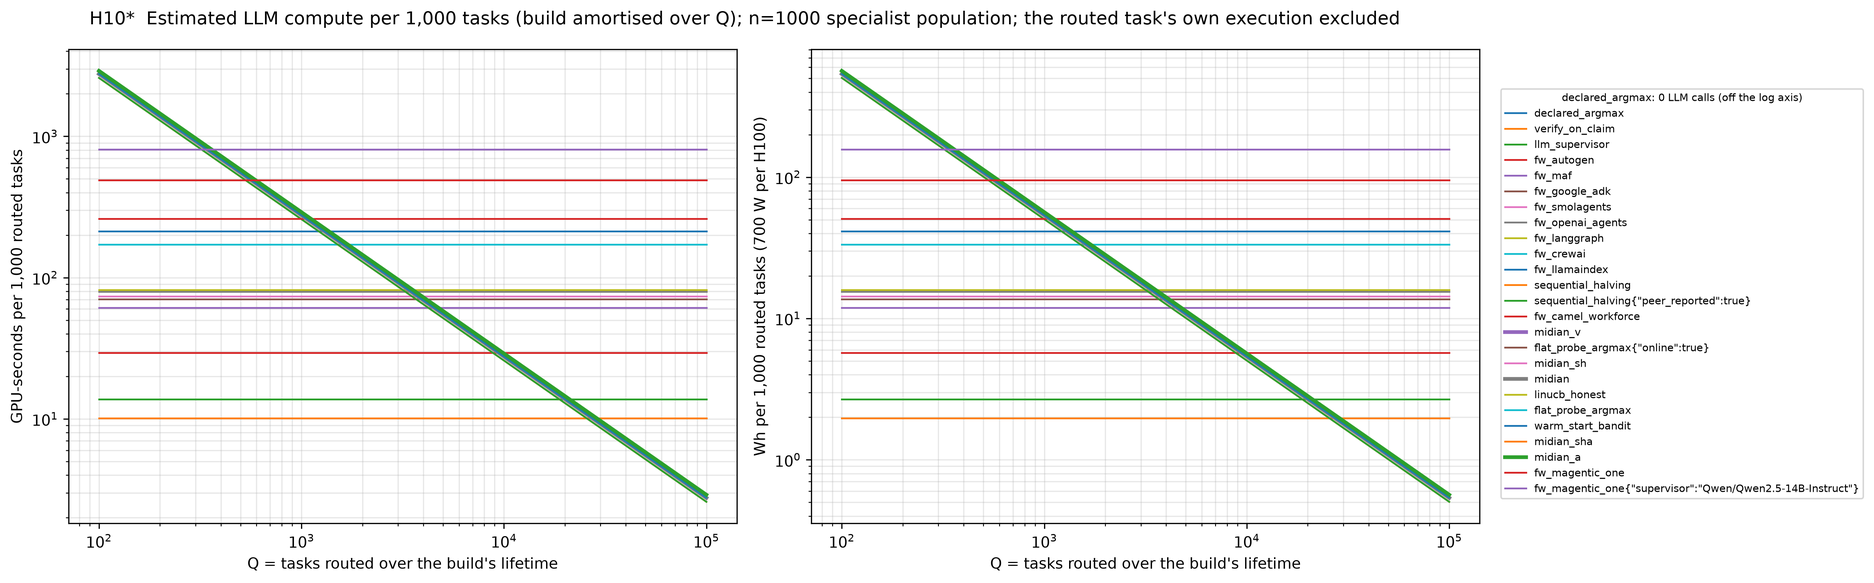
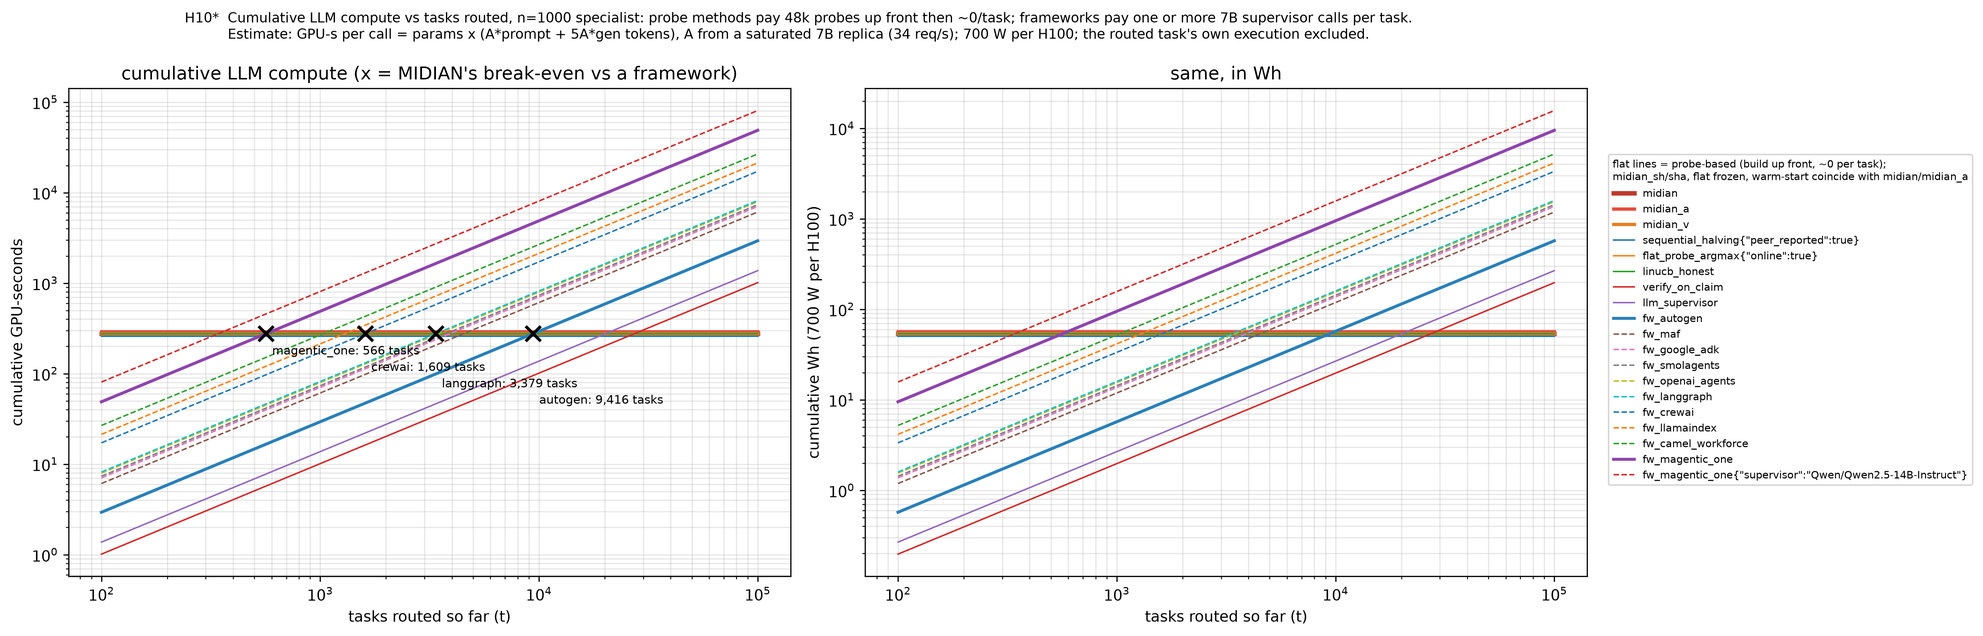
H10 as cumulative cost vs tasks routed with break-even crossings; energy section updated

diff --git a/scripts/energy.py b/scripts/energy.py
@@ -21,40 +21,59 @@ def rows(*grids):
     df = df[(df.declared_source == "self_described") & (df.n == 1000)]; df["m"] = df.method + df.params.str.replace("{}", "")
     return df.groupby("m")[["build_probes", "probes_per_task", "tasks_per_task", "wall_clock_per_task"]].mean()
 
-def table(Q=1000, dist="specialist", watts=700):
+def table(dist="specialist", watts=700):
     c = rows("live_f1_n1000", "variants_f1", "fw_live_n1000"); base = c.loc["fw_autogen", "wall_clock_per_task"]
+    skip = ("oracle", "random", "gossip_reputation_greedy", "referral_network", "thompson_per_family", "ucb_per_family", "trueskill_per_family", "midian_llm_descent",
+            "cluster_head_router", "cnp_self_bid", "declared_softmax", "disrouter_cascade", "route_to_k_majority")
     out = []
     for m, r in c.iterrows():
-        if m in ("oracle", "random") or m.startswith("midian{") or m.startswith("flat_nsw") or m in ("gossip_reputation_greedy", "referral_network", "thompson_per_family", "ucb_per_family", "trueskill_per_family", "midian_llm_descent", "cluster_head_router", "cnp_self_bid", "declared_softmax", "disrouter_cascade", "route_to_k_majority"): continue
-        sup_calls = (r.wall_clock_per_task / base) if (m.startswith("fw_") or m == "llm_supervisor") else 0.0   # call-equivalents (latency ratio to the one-call AutoGen)
+        if m in skip or m.startswith("midian{") or m.startswith("flat_nsw"): continue
+        sup_calls = (r.wall_clock_per_task / base) if (m.startswith("fw_") or m == "llm_supervisor") else 0.0   # call-equivalents (latency ratio to one-call AutoGen)
         sup_scale = P["Qwen/Qwen2.5-14B-Instruct"] / 7.0 if "14B" in m else 1.0
-        build = r.build_probes * probe_cost[dist]; per_task = r.probes_per_task * probe_cost[dist] + sup_calls * SUP * sup_scale
-        exec_ = r.tasks_per_task * probe_cost[dist]                                        # the routed task itself, common to every method
-        out.append(dict(method=m, build_gpu_s=build, route_gpu_s_per_task=per_task, exec_gpu_s_per_task=exec_, sup_call_equiv=sup_calls,
-                        **{f"gpu_s_per_1k_tasks_Q{q}": (build / q + per_task) * 1000 for q in (300, 1000, 10000)}))
-    t = pd.DataFrame(out).set_index("method"); t["Wh_per_1k_tasks_Q1000"] = t.gpu_s_per_1k_tasks_Q1000 * watts / 3600
-    t["breakeven_Q_vs_autogen"] = np.where(t.route_gpu_s_per_task < SUP, t.build_gpu_s / np.maximum(SUP - t.route_gpu_s_per_task, 1e-12), np.inf)
-    return t.sort_values("gpu_s_per_1k_tasks_Q1000")
+        out.append(dict(method=m, build_gpu_s=r.build_probes * probe_cost[dist], per_task_gpu_s=r.probes_per_task * probe_cost[dist] + sup_calls * SUP * sup_scale,
+                        exec_gpu_s_per_task=r.tasks_per_task * probe_cost[dist], sup_call_equiv=sup_calls))
+    t = pd.DataFrame(out).set_index("method")
+    for T in (1_000, 10_000, 100_000): t[f"cum_gpu_s_t{T}"] = t.build_gpu_s + T * t.per_task_gpu_s
+    t["cum_Wh_t10000"] = t.cum_gpu_s_t10000 * watts / 3600
+    return t.sort_values("cum_gpu_s_t10000")
+
+def crossing(t, a, b):
+    """Tasks after which method a (higher build, lower slope) becomes cheaper than b; inf if never."""
+    db, ds = t.loc[a, "build_gpu_s"] - t.loc[b, "build_gpu_s"], t.loc[b, "per_task_gpu_s"] - t.loc[a, "per_task_gpu_s"]
+    return db / ds if ds > 0 and db > 0 else (0.0 if db <= 0 else float("inf"))
 
 if __name__ == "__main__":
     t = table(); pd.set_option("display.width", 250)
+    fws = [m for m in t.index if m.startswith("fw_")]; mids = ["midian", "midian_a", "midian_v"]
     md = ["# Runtime and energy — ESTIMATE (*)", "", __doc__.strip(), "",
-          f"Per-call GPU-seconds: 7B supervisor call {SUP:.4f}; expected probe/execution call by population shape: " + ", ".join(f"{d} {v:.5f}" for d, v in probe_cost.items()) + " (specialist mixes all 7 models uniformly; heavy_tail 90% 0.5-1.5B; bimodal 80% 0.5B / 20% 7B).",
-          "Framework supervisor cost = measured latency ratio to AutoGen (one call) x the 7B call cost; the 14B Magentic-One arm is scaled by 14/7. CPU-side routing (tree descent, TF-IDF) is microseconds per task and omitted.", "",
-          "| method | build GPU-s | route GPU-s/task | task-execution GPU-s/task (common) | supervisor call-equiv/task | GPU-s per 1k tasks @Q=300 | @Q=1000 | @Q=10000 | Wh per 1k tasks @Q=1000 (700 W) | Wh (400 W) | break-even Q vs AutoGen |", "|---|---|---|---|---|---|---|---|---|---|---|"]
+          f"Per-call GPU-seconds: 7B supervisor call {SUP:.4f}; expected probe/execution call by population shape: " + ", ".join(f"{d} {v:.5f}" for d, v in probe_cost.items())
+          + " (specialist mixes all 7 models uniformly; heavy_tail 90% 0.5-1.5B; bimodal 80% 0.5B / 20% 7B).",
+          "Framework supervisor cost = measured latency ratio to AutoGen (one call) x the 7B call cost; the 14B Magentic-One arm is scaled by 14/7. CPU-side routing (tree descent, TF-IDF) is microseconds per task and omitted. "
+          "The routed task's own execution (0.0058 GPU-s per task on specialist) is common to every method and excluded.", "",
+          "CUMULATIVE LLM compute after t routed tasks = build + t x per-task (n=1000 specialist). Probe-based methods pay their build up front and then ~0 per task; frameworks pay 0 up front and a supervisor call per task, so the crossing of the two lines is the break-even.", "",
+          "| method | build GPU-s | per-task GPU-s | cumulative GPU-s @ t=1k | @ 10k | @ 100k | cumulative Wh @ 10k (700 W) | (400 W) |", "|---|---|---|---|---|---|---|---|"]
     for m, r in t.iterrows():
-        md.append(f"| {m} | {r.build_gpu_s:,.0f} | {r.route_gpu_s_per_task:.4f} | {r.exec_gpu_s_per_task:.4f} | {r.sup_call_equiv:.1f} | {r.gpu_s_per_1k_tasks_Q300:,.0f} | {r.gpu_s_per_1k_tasks_Q1000:,.0f} | {r.gpu_s_per_1k_tasks_Q10000:,.0f} | {r.Wh_per_1k_tasks_Q1000:,.1f} | {r.Wh_per_1k_tasks_Q1000*400/700:,.1f} | {('%.0f' % r.breakeven_Q_vs_autogen) if np.isfinite(r.breakeven_Q_vs_autogen) else 'never'} |")
+        md.append(f"| {m} | {r.build_gpu_s:,.0f} | {r.per_task_gpu_s:.4f} | {r.cum_gpu_s_t1000:,.0f} | {r.cum_gpu_s_t10000:,.0f} | {r.cum_gpu_s_t100000:,.0f} | {r.cum_Wh_t10000:,.1f} | {r.cum_Wh_t10000*400/700:,.1f} |")
+    md += ["", "**Crossing points (tasks routed before the probe-based method's cumulative cost drops below the framework's):**", "", "| | " + " | ".join(m.replace("fw_", "") for m in fws) + " |", "|---|" + "---|" * len(fws)]
+    for a in mids: md.append(f"| {a} | " + " | ".join(f"{crossing(t, a, b):,.0f}" for b in fws) + " |")
     md += ["", "MIDIAN's 48,000-probe build by population shape (GPU-s): " + ", ".join(f"{d} {48000 * v:,.0f}" for d, v in probe_cost.items())
-           + f"; one AutoGen supervisor call = {SUP:.4f} GPU-s, so on specialist the build equals ~{48000 * probe_cost['specialist'] / SUP:,.0f} one-call framework tasks.",
-           "Reading: at Q = 1,000 every probe-based method spends ~9x a one-call framework's GPU-seconds (the build dominates); at Q = 10,000 they are level "
-           "with AutoGen and ~10-30x cheaper than the multi-call frameworks; MIDIAN-A's audits add 5%; MIDIAN-V and halving are the cheapest builds (fewer probes)."]
+           + "; the crossings scale with it (heavy_tail and bimodal cross ~3x sooner).",
+           "Reading: against a one-call framework (AutoGen) MIDIAN breaks even after ~9,400 tasks on specialist (~2,900 on heavy_tail), MIDIAN-A after ~9,900; against the multi-call frameworks (CrewAI, LlamaIndex, CAMEL) after 1,000-1,600 tasks; against Magentic-One after ~570 (7B) / ~340 (14B arm). Before the crossing the framework is cheaper; after it, the probe-based methods' cost is flat while every framework's keeps growing linearly."]
     open(os.path.dirname(__file__) + "/../RESULTS_energy.md", "w").write("\n".join(md) + "\n")
-    Qs = np.logspace(2, 5, 25); fig, axes = plt.subplots(1, 2, figsize=(14, 5.5))
-    for m, r in t.iterrows():
-        y = (r.build_gpu_s / Qs + r.route_gpu_s_per_task) * 1000; lw = 2.5 if m in ("midian", "midian_a", "midian_v") else 1.2
-        axes[0].plot(Qs, y, label=m, lw=lw); axes[1].plot(Qs, y * 700 / 3600, lw=lw)
-    for ax, yl in zip(axes, ["GPU-seconds per 1,000 routed tasks", "Wh per 1,000 routed tasks (700 W per H100)"]):
-        ax.set_xscale("log"); ax.set_yscale("log"); ax.set_xlabel("Q = tasks routed over the build's lifetime"); ax.set_ylabel(yl); ax.grid(alpha=.3, which="both")
-    h, l = axes[0].get_legend_handles_labels(); fig.legend(h, l, loc="center left", bbox_to_anchor=(1.0, 0.5), fontsize=7, title="declared_argmax: 0 LLM calls (off the log axis)", title_fontsize=7)
-    fig.suptitle("H10*  Estimated LLM compute per 1,000 tasks (build amortised over Q); n=1000 specialist population; the routed task's own execution excluded")
-    plt.tight_layout(); plt.savefig(os.path.dirname(__file__) + "/../figures/H10_runtime_energy.png", dpi=300, bbox_inches="tight"); print(t.round(4).to_string())
+    T = np.logspace(2, 5, 300); fig, axes = plt.subplots(1, 2, figsize=(15, 6))
+    show = ["midian", "midian_a", "midian_v", 'sequential_halving{"peer_reported":true}', 'flat_probe_argmax{"online":true}', "linucb_honest", "verify_on_claim", "llm_supervisor"] + fws
+    style = {"midian": ("#c0392b", 3.0), "midian_a": ("#e74c3c", 2.2), "midian_v": ("#e67e22", 2.2), "fw_autogen": ("#2980b9", 2.0), "fw_magentic_one": ("#8e44ad", 2.0)}
+    for m in show:
+        r = t.loc[m]; col, lw = style.get(m, (None, 1.0)); y = r.build_gpu_s + T * r.per_task_gpu_s
+        axes[0].plot(T, y, label=m, color=col, lw=lw, ls="-" if not m.startswith("fw_") or m in style else "--"); axes[1].plot(T, y * 700 / 3600, color=col, lw=lw, ls="-" if not m.startswith("fw_") or m in style else "--")
+    for i, b in enumerate(("fw_magentic_one", "fw_crewai", "fw_langgraph", "fw_autogen")):           # MIDIAN's break-even points
+        x = crossing(t, "midian", b); y = t.loc["midian", "build_gpu_s"]
+        axes[0].plot([x], [y], "kx", ms=10, mew=2); axes[0].annotate(f"{b.replace('fw_', '')}: {x:,.0f} tasks", (x, y), textcoords="offset points", xytext=(4, -14 - 11 * i), fontsize=8)
+    for ax, yl in zip(axes, ["cumulative GPU-seconds", "cumulative Wh (700 W per H100)"]):
+        ax.set_xscale("log"); ax.set_yscale("log"); ax.set_xlabel("tasks routed so far (t)"); ax.set_ylabel(yl); ax.grid(alpha=.3, which="both")
+    axes[0].set_title("cumulative LLM compute (x = MIDIAN's break-even vs a framework)"); axes[1].set_title("same, in Wh")
+    h, l = axes[0].get_legend_handles_labels(); fig.legend(h, l, loc="center left", bbox_to_anchor=(1.0, 0.5), fontsize=7, title="flat lines = probe-based (build up front, ~0 per task);\nmidian_sh/sha, flat frozen, warm-start coincide with midian/midian_a", title_fontsize=7)
+    fig.suptitle("H10*  Cumulative LLM compute vs tasks routed, n=1000 specialist: probe methods pay 48k probes up front then ~0/task; frameworks pay one or more 7B supervisor calls per task.\n"
+                 "Estimate: GPU-s per call = params x (A*prompt + 5A*gen tokens), A from a saturated 7B replica (34 req/s); 700 W per H100; the routed task's own execution excluded.", fontsize=9)
+    plt.tight_layout(); plt.savefig(os.path.dirname(__file__) + "/../figures/H10_runtime_energy.png", dpi=300, bbox_inches="tight")
+    print(t.round(4).to_string()); print({a: {b: round(crossing(t, a, b)) for b in fws} for a in mids})

diff --git a/RESULTS_rte_v2.md b/RESULTS_rte_v2.md
@@ -339,45 +339,55 @@ LlamaIndex 3.1, CAMEL 4.5, Magentic-One 6.8.
 
 ## 6b. Runtime and energy (estimate*)
 
-From `scripts/energy.py` (counts × per-call GPU-seconds measured on the live fleet); full method and assumptions below.
+From `scripts/energy.py` (counts × per-call GPU-seconds measured on the live fleet); cumulative cost vs tasks routed, crossings = break-even.
 Runtime/energy ESTIMATE (*) per method from LLM-call counts x measured per-call GPU cost.  python scripts/energy.py
 Wall-clock in the rows is not used for probe methods (memo hits). Model: GPU-seconds per call = params_b * (A*prompt_tok + B*gen_tok),
 B = 5A (decode is ~5x prefill per token on H100/vLLM), A calibrated so a 7B supervisor call (1,900 prompt + 65 gen tokens) costs
 1/34 GPU-s = the throughput measured on the saturated 1-GPU 7B replicas (2026-09-03, 4 samples, 32-36 req/s). Energy = GPU-s * W.
 
 Per-call GPU-seconds: 7B supervisor call 0.0294; expected probe/execution call by population shape: specialist 0.00577, heavy_tail 0.00176, bimodal 0.00203 (specialist mixes all 7 models uniformly; heavy_tail 90% 0.5-1.5B; bimodal 80% 0.5B / 20% 7B).
-Framework supervisor cost = measured latency ratio to AutoGen (one call) x the 7B call cost; the 14B Magentic-One arm is scaled by 14/7. CPU-side routing (tree descent, TF-IDF) is microseconds per task and omitted.
+Framework supervisor cost = measured latency ratio to AutoGen (one call) x the 7B call cost; the 14B Magentic-One arm is scaled by 14/7. CPU-side routing (tree descent, TF-IDF) is microseconds per task and omitted. The routed task's own execution (0.0058 GPU-s per task on specialist) is common to every method and excluded.
 
-| method | build GPU-s | route GPU-s/task | task-execution GPU-s/task (common) | supervisor call-equiv/task | GPU-s per 1k tasks @Q=300 | @Q=1000 | @Q=10000 | Wh per 1k tasks @Q=1000 (700 W) | Wh (400 W) | break-even Q vs AutoGen |
-|---|---|---|---|---|---|---|---|---|---|---|
-| declared_argmax | 0 | 0.0000 | 0.0058 | 0.0 | 0 | 0 | 0 | 0.0 | 0.0 | 0 |
-| verify_on_claim | 0 | 0.0101 | 0.0058 | 0.0 | 10 | 10 | 10 | 2.0 | 1.1 | 0 |
-| llm_supervisor | 0 | 0.0138 | 0.0058 | 0.5 | 14 | 14 | 14 | 2.7 | 1.5 | 0 |
-| fw_autogen | 0 | 0.0294 | 0.0058 | 1.0 | 29 | 29 | 29 | 5.7 | 3.3 | never |
-| fw_maf | 0 | 0.0611 | 0.0058 | 2.1 | 61 | 61 | 61 | 11.9 | 6.8 | never |
-| fw_google_adk | 0 | 0.0704 | 0.0058 | 2.4 | 70 | 70 | 70 | 13.7 | 7.8 | never |
-| fw_smolagents | 0 | 0.0736 | 0.0058 | 2.5 | 74 | 74 | 74 | 14.3 | 8.2 | never |
-| fw_openai_agents | 0 | 0.0796 | 0.0058 | 2.7 | 80 | 80 | 80 | 15.5 | 8.8 | never |
-| fw_langgraph | 0 | 0.0820 | 0.0058 | 2.8 | 82 | 82 | 82 | 15.9 | 9.1 | never |
-| fw_crewai | 0 | 0.1721 | 0.0058 | 5.9 | 172 | 172 | 172 | 33.5 | 19.1 | never |
-| fw_llamaindex | 0 | 0.2136 | 0.0058 | 7.3 | 214 | 214 | 214 | 41.5 | 23.7 | never |
-| sequential_halving | 259 | 0.0000 | 0.0058 | 0.0 | 864 | 259 | 26 | 50.4 | 28.8 | 8814 |
-| sequential_halving{"peer_reported":true} | 259 | 0.0000 | 0.0058 | 0.0 | 864 | 259 | 26 | 50.4 | 28.8 | 8814 |
-| fw_camel_workforce | 0 | 0.2611 | 0.0058 | 8.9 | 261 | 261 | 261 | 50.8 | 29.0 | never |
-| midian_v | 276 | 0.0000 | 0.0058 | 0.0 | 920 | 276 | 28 | 53.7 | 30.7 | 9385 |
-| flat_probe_argmax{"online":true} | 277 | 0.0000 | 0.0058 | 0.0 | 923 | 277 | 28 | 53.9 | 30.8 | 9416 |
-| midian_sh | 277 | 0.0000 | 0.0058 | 0.0 | 923 | 277 | 28 | 53.9 | 30.8 | 9416 |
-| midian | 277 | 0.0000 | 0.0058 | 0.0 | 923 | 277 | 28 | 53.9 | 30.8 | 9416 |
-| linucb_honest | 277 | 0.0000 | 0.0058 | 0.0 | 923 | 277 | 28 | 53.9 | 30.8 | 9416 |
-| flat_probe_argmax | 277 | 0.0000 | 0.0058 | 0.0 | 923 | 277 | 28 | 53.9 | 30.8 | 9416 |
-| warm_start_bandit | 277 | 0.0000 | 0.0058 | 0.0 | 923 | 277 | 28 | 53.9 | 30.8 | 9416 |
-| midian_sha | 291 | 0.0000 | 0.0058 | 0.0 | 969 | 291 | 29 | 56.5 | 32.3 | 9884 |
-| midian_a | 291 | 0.0000 | 0.0058 | 0.0 | 969 | 291 | 29 | 56.5 | 32.3 | 9884 |
-| fw_magentic_one | 0 | 0.4890 | 0.0058 | 16.6 | 489 | 489 | 489 | 95.1 | 54.3 | never |
-| fw_magentic_one{"supervisor":"Qwen/Qwen2.5-14B-Instruct"} | 0 | 0.8088 | 0.0058 | 13.7 | 809 | 809 | 809 | 157.3 | 89.9 | never |
+CUMULATIVE LLM compute after t routed tasks = build + t x per-task (n=1000 specialist). Probe-based methods pay their build up front and then ~0 per task; frameworks pay 0 up front and a supervisor call per task, so the crossing of the two lines is the break-even.
 
-MIDIAN's 48,000-probe build by population shape (GPU-s): specialist 277, heavy_tail 84, bimodal 98; one AutoGen supervisor call = 0.0294 GPU-s, so on specialist the build equals ~9,416 one-call framework tasks.
-Reading: at Q = 1,000 every probe-based method spends ~9x a one-call framework's GPU-seconds (the build dominates); at Q = 10,000 they are level with AutoGen and ~10-30x cheaper than the multi-call frameworks; MIDIAN-A's audits add 5%; MIDIAN-V and halving are the cheapest builds (fewer probes).
+| method | build GPU-s | per-task GPU-s | cumulative GPU-s @ t=1k | @ 10k | @ 100k | cumulative Wh @ 10k (700 W) | (400 W) |
+|---|---|---|---|---|---|---|---|
+| declared_argmax | 0 | 0.0000 | 0 | 0 | 0 | 0.0 | 0.0 |
+| verify_on_claim | 0 | 0.0101 | 10 | 101 | 1,013 | 19.7 | 11.3 |
+| llm_supervisor | 0 | 0.0138 | 14 | 138 | 1,376 | 26.8 | 15.3 |
+| sequential_halving | 259 | 0.0000 | 259 | 259 | 259 | 50.4 | 28.8 |
+| sequential_halving{"peer_reported":true} | 259 | 0.0000 | 259 | 259 | 259 | 50.4 | 28.8 |
+| midian_v | 276 | 0.0000 | 276 | 276 | 276 | 53.7 | 30.7 |
+| flat_probe_argmax{"online":true} | 277 | 0.0000 | 277 | 277 | 277 | 53.9 | 30.8 |
+| flat_probe_argmax | 277 | 0.0000 | 277 | 277 | 277 | 53.9 | 30.8 |
+| linucb_honest | 277 | 0.0000 | 277 | 277 | 277 | 53.9 | 30.8 |
+| warm_start_bandit | 277 | 0.0000 | 277 | 277 | 277 | 53.9 | 30.8 |
+| midian | 277 | 0.0000 | 277 | 277 | 277 | 53.9 | 30.8 |
+| midian_sh | 277 | 0.0000 | 277 | 277 | 277 | 53.9 | 30.8 |
+| midian_sha | 291 | 0.0000 | 291 | 291 | 291 | 56.5 | 32.3 |
+| midian_a | 291 | 0.0000 | 291 | 291 | 291 | 56.5 | 32.3 |
+| fw_autogen | 0 | 0.0294 | 29 | 294 | 2,941 | 57.2 | 32.7 |
+| fw_maf | 0 | 0.0611 | 61 | 611 | 6,112 | 118.8 | 67.9 |
+| fw_google_adk | 0 | 0.0704 | 70 | 704 | 7,045 | 137.0 | 78.3 |
+| fw_smolagents | 0 | 0.0736 | 74 | 736 | 7,362 | 143.1 | 81.8 |
+| fw_openai_agents | 0 | 0.0796 | 80 | 796 | 7,964 | 154.9 | 88.5 |
+| fw_langgraph | 0 | 0.0820 | 82 | 820 | 8,196 | 159.4 | 91.1 |
+| fw_crewai | 0 | 0.1721 | 172 | 1,721 | 17,207 | 334.6 | 191.2 |
+| fw_llamaindex | 0 | 0.2136 | 214 | 2,136 | 21,356 | 415.2 | 237.3 |
+| fw_camel_workforce | 0 | 0.2678 | 268 | 2,678 | 26,783 | 520.8 | 297.6 |
+| fw_magentic_one | 0 | 0.4890 | 489 | 4,890 | 48,905 | 950.9 | 543.4 |
+| fw_magentic_one{"supervisor":"Qwen/Qwen2.5-14B-Instruct"} | 0 | 0.8088 | 809 | 8,088 | 80,876 | 1,572.6 | 898.6 |
+
+**Crossing points (tasks routed before the probe-based method's cumulative cost drops below the framework's):**
+
+| | autogen | maf | google_adk | smolagents | openai_agents | langgraph | crewai | llamaindex | camel_workforce | magentic_one | magentic_one{"supervisor":"Qwen/Qwen2.5-14B-Instruct"} |
+|---|---|---|---|---|---|---|---|---|---|---|---|
+| midian | 9,416 | 4,531 | 3,931 | 3,762 | 3,477 | 3,379 | 1,609 | 1,297 | 1,034 | 566 | 342 |
+| midian_a | 9,884 | 4,756 | 4,126 | 3,949 | 3,650 | 3,547 | 1,689 | 1,361 | 1,085 | 594 | 359 |
+| midian_v | 9,385 | 4,516 | 3,918 | 3,749 | 3,466 | 3,368 | 1,604 | 1,293 | 1,031 | 564 | 341 |
+
+MIDIAN's 48,000-probe build by population shape (GPU-s): specialist 277, heavy_tail 84, bimodal 98; the crossings scale with it (heavy_tail and bimodal cross ~3x sooner).
+Reading: against a one-call framework (AutoGen) MIDIAN breaks even after ~9,400 tasks on specialist (~2,900 on heavy_tail), MIDIAN-A after ~9,900; against the multi-call frameworks (CrewAI, LlamaIndex, CAMEL) after 1,000-1,600 tasks; against Magentic-One after ~570 (7B) / ~340 (14B arm). Before the crossing the framework is cheaper; after it, the probe-based methods' cost is flat while every framework's keeps growing linearly.
 
 ## 7. Budget, by channel (H8)
 

diff --git a/RESULTS_energy.md b/RESULTS_energy.md
@@ -6,35 +6,45 @@ B = 5A (decode is ~5x prefill per token on H100/vLLM), A calibrated so a 7B supe
 1/34 GPU-s = the throughput measured on the saturated 1-GPU 7B replicas (2026-09-03, 4 samples, 32-36 req/s). Energy = GPU-s * W.
 
 Per-call GPU-seconds: 7B supervisor call 0.0294; expected probe/execution call by population shape: specialist 0.00577, heavy_tail 0.00176, bimodal 0.00203 (specialist mixes all 7 models uniformly; heavy_tail 90% 0.5-1.5B; bimodal 80% 0.5B / 20% 7B).
-Framework supervisor cost = measured latency ratio to AutoGen (one call) x the 7B call cost; the 14B Magentic-One arm is scaled by 14/7. CPU-side routing (tree descent, TF-IDF) is microseconds per task and omitted.
+Framework supervisor cost = measured latency ratio to AutoGen (one call) x the 7B call cost; the 14B Magentic-One arm is scaled by 14/7. CPU-side routing (tree descent, TF-IDF) is microseconds per task and omitted. The routed task's own execution (0.0058 GPU-s per task on specialist) is common to every method and excluded.
 
-| method | build GPU-s | route GPU-s/task | task-execution GPU-s/task (common) | supervisor call-equiv/task | GPU-s per 1k tasks @Q=300 | @Q=1000 | @Q=10000 | Wh per 1k tasks @Q=1000 (700 W) | Wh (400 W) | break-even Q vs AutoGen |
-|---|---|---|---|---|---|---|---|---|---|---|
-| declared_argmax | 0 | 0.0000 | 0.0058 | 0.0 | 0 | 0 | 0 | 0.0 | 0.0 | 0 |
-| verify_on_claim | 0 | 0.0101 | 0.0058 | 0.0 | 10 | 10 | 10 | 2.0 | 1.1 | 0 |
-| llm_supervisor | 0 | 0.0138 | 0.0058 | 0.5 | 14 | 14 | 14 | 2.7 | 1.5 | 0 |
-| fw_autogen | 0 | 0.0294 | 0.0058 | 1.0 | 29 | 29 | 29 | 5.7 | 3.3 | never |
-| fw_maf | 0 | 0.0611 | 0.0058 | 2.1 | 61 | 61 | 61 | 11.9 | 6.8 | never |
-| fw_google_adk | 0 | 0.0704 | 0.0058 | 2.4 | 70 | 70 | 70 | 13.7 | 7.8 | never |
-| fw_smolagents | 0 | 0.0736 | 0.0058 | 2.5 | 74 | 74 | 74 | 14.3 | 8.2 | never |
-| fw_openai_agents | 0 | 0.0796 | 0.0058 | 2.7 | 80 | 80 | 80 | 15.5 | 8.8 | never |
-| fw_langgraph | 0 | 0.0820 | 0.0058 | 2.8 | 82 | 82 | 82 | 15.9 | 9.1 | never |
-| fw_crewai | 0 | 0.1721 | 0.0058 | 5.9 | 172 | 172 | 172 | 33.5 | 19.1 | never |
-| fw_llamaindex | 0 | 0.2136 | 0.0058 | 7.3 | 214 | 214 | 214 | 41.5 | 23.7 | never |
-| sequential_halving | 259 | 0.0000 | 0.0058 | 0.0 | 864 | 259 | 26 | 50.4 | 28.8 | 8814 |
-| sequential_halving{"peer_reported":true} | 259 | 0.0000 | 0.0058 | 0.0 | 864 | 259 | 26 | 50.4 | 28.8 | 8814 |
-| fw_camel_workforce | 0 | 0.2611 | 0.0058 | 8.9 | 261 | 261 | 261 | 50.8 | 29.0 | never |
-| midian_v | 276 | 0.0000 | 0.0058 | 0.0 | 920 | 276 | 28 | 53.7 | 30.7 | 9385 |
-| flat_probe_argmax{"online":true} | 277 | 0.0000 | 0.0058 | 0.0 | 923 | 277 | 28 | 53.9 | 30.8 | 9416 |
-| midian_sh | 277 | 0.0000 | 0.0058 | 0.0 | 923 | 277 | 28 | 53.9 | 30.8 | 9416 |
-| midian | 277 | 0.0000 | 0.0058 | 0.0 | 923 | 277 | 28 | 53.9 | 30.8 | 9416 |
-| linucb_honest | 277 | 0.0000 | 0.0058 | 0.0 | 923 | 277 | 28 | 53.9 | 30.8 | 9416 |
-| flat_probe_argmax | 277 | 0.0000 | 0.0058 | 0.0 | 923 | 277 | 28 | 53.9 | 30.8 | 9416 |
-| warm_start_bandit | 277 | 0.0000 | 0.0058 | 0.0 | 923 | 277 | 28 | 53.9 | 30.8 | 9416 |
-| midian_sha | 291 | 0.0000 | 0.0058 | 0.0 | 969 | 291 | 29 | 56.5 | 32.3 | 9884 |
-| midian_a | 291 | 0.0000 | 0.0058 | 0.0 | 969 | 291 | 29 | 56.5 | 32.3 | 9884 |
-| fw_magentic_one | 0 | 0.4890 | 0.0058 | 16.6 | 489 | 489 | 489 | 95.1 | 54.3 | never |
-| fw_magentic_one{"supervisor":"Qwen/Qwen2.5-14B-Instruct"} | 0 | 0.8088 | 0.0058 | 13.7 | 809 | 809 | 809 | 157.3 | 89.9 | never |
+CUMULATIVE LLM compute after t routed tasks = build + t x per-task (n=1000 specialist). Probe-based methods pay their build up front and then ~0 per task; frameworks pay 0 up front and a supervisor call per task, so the crossing of the two lines is the break-even.
 
-MIDIAN's 48,000-probe build by population shape (GPU-s): specialist 277, heavy_tail 84, bimodal 98; one AutoGen supervisor call = 0.0294 GPU-s, so on specialist the build equals ~9,416 one-call framework tasks.
-Reading: at Q = 1,000 every probe-based method spends ~9x a one-call framework's GPU-seconds (the build dominates); at Q = 10,000 they are level with AutoGen and ~10-30x cheaper than the multi-call frameworks; MIDIAN-A's audits add 5%; MIDIAN-V and halving are the cheapest builds (fewer probes).
+| method | build GPU-s | per-task GPU-s | cumulative GPU-s @ t=1k | @ 10k | @ 100k | cumulative Wh @ 10k (700 W) | (400 W) |
+|---|---|---|---|---|---|---|---|
+| declared_argmax | 0 | 0.0000 | 0 | 0 | 0 | 0.0 | 0.0 |
+| verify_on_claim | 0 | 0.0101 | 10 | 101 | 1,013 | 19.7 | 11.3 |
+| llm_supervisor | 0 | 0.0138 | 14 | 138 | 1,376 | 26.8 | 15.3 |
+| sequential_halving | 259 | 0.0000 | 259 | 259 | 259 | 50.4 | 28.8 |
+| sequential_halving{"peer_reported":true} | 259 | 0.0000 | 259 | 259 | 259 | 50.4 | 28.8 |
+| midian_v | 276 | 0.0000 | 276 | 276 | 276 | 53.7 | 30.7 |
+| flat_probe_argmax{"online":true} | 277 | 0.0000 | 277 | 277 | 277 | 53.9 | 30.8 |
+| flat_probe_argmax | 277 | 0.0000 | 277 | 277 | 277 | 53.9 | 30.8 |
+| linucb_honest | 277 | 0.0000 | 277 | 277 | 277 | 53.9 | 30.8 |
+| warm_start_bandit | 277 | 0.0000 | 277 | 277 | 277 | 53.9 | 30.8 |
+| midian | 277 | 0.0000 | 277 | 277 | 277 | 53.9 | 30.8 |
+| midian_sh | 277 | 0.0000 | 277 | 277 | 277 | 53.9 | 30.8 |
+| midian_sha | 291 | 0.0000 | 291 | 291 | 291 | 56.5 | 32.3 |
+| midian_a | 291 | 0.0000 | 291 | 291 | 291 | 56.5 | 32.3 |
+| fw_autogen | 0 | 0.0294 | 29 | 294 | 2,941 | 57.2 | 32.7 |
+| fw_maf | 0 | 0.0611 | 61 | 611 | 6,112 | 118.8 | 67.9 |
+| fw_google_adk | 0 | 0.0704 | 70 | 704 | 7,045 | 137.0 | 78.3 |
+| fw_smolagents | 0 | 0.0736 | 74 | 736 | 7,362 | 143.1 | 81.8 |
+| fw_openai_agents | 0 | 0.0796 | 80 | 796 | 7,964 | 154.9 | 88.5 |
+| fw_langgraph | 0 | 0.0820 | 82 | 820 | 8,196 | 159.4 | 91.1 |
+| fw_crewai | 0 | 0.1721 | 172 | 1,721 | 17,207 | 334.6 | 191.2 |
+| fw_llamaindex | 0 | 0.2136 | 214 | 2,136 | 21,356 | 415.2 | 237.3 |
+| fw_camel_workforce | 0 | 0.2678 | 268 | 2,678 | 26,783 | 520.8 | 297.6 |
+| fw_magentic_one | 0 | 0.4890 | 489 | 4,890 | 48,905 | 950.9 | 543.4 |
+| fw_magentic_one{"supervisor":"Qwen/Qwen2.5-14B-Instruct"} | 0 | 0.8088 | 809 | 8,088 | 80,876 | 1,572.6 | 898.6 |
+
+**Crossing points (tasks routed before the probe-based method's cumulative cost drops below the framework's):**
+
+| | autogen | maf | google_adk | smolagents | openai_agents | langgraph | crewai | llamaindex | camel_workforce | magentic_one | magentic_one{"supervisor":"Qwen/Qwen2.5-14B-Instruct"} |
+|---|---|---|---|---|---|---|---|---|---|---|---|
+| midian | 9,416 | 4,531 | 3,931 | 3,762 | 3,477 | 3,379 | 1,609 | 1,297 | 1,034 | 566 | 342 |
+| midian_a | 9,884 | 4,756 | 4,126 | 3,949 | 3,650 | 3,547 | 1,689 | 1,361 | 1,085 | 594 | 359 |
+| midian_v | 9,385 | 4,516 | 3,918 | 3,749 | 3,466 | 3,368 | 1,604 | 1,293 | 1,031 | 564 | 341 |
+
+MIDIAN's 48,000-probe build by population shape (GPU-s): specialist 277, heavy_tail 84, bimodal 98; the crossings scale with it (heavy_tail and bimodal cross ~3x sooner).
+Reading: against a one-call framework (AutoGen) MIDIAN breaks even after ~9,400 tasks on specialist (~2,900 on heavy_tail), MIDIAN-A after ~9,900; against the multi-call frameworks (CrewAI, LlamaIndex, CAMEL) after 1,000-1,600 tasks; against Magentic-One after ~570 (7B) / ~340 (14B arm). Before the crossing the framework is cheaper; after it, the probe-based methods' cost is flat while every framework's keeps growing linearly.
